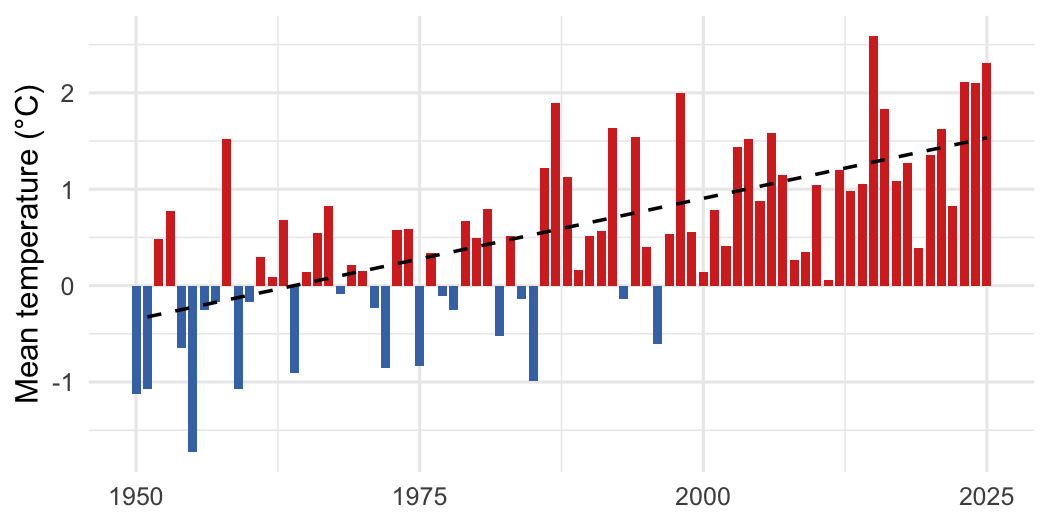
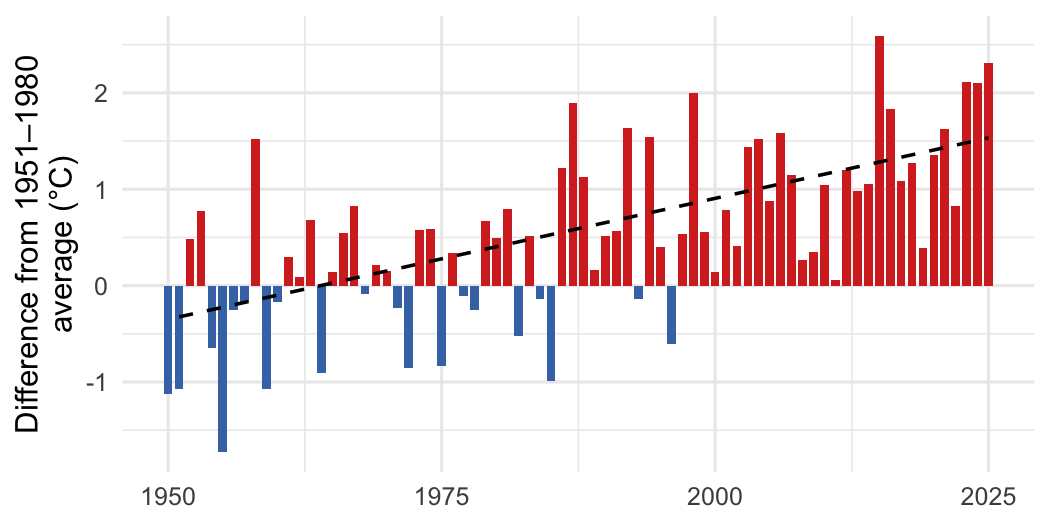
README: NOTICE for ERA5-Land data, plain axis label, fixes from plan review (#142)
Claude-Session: https://claude.ai/code/session_01GignjoKpZADXywTf6pAMgj

diff --git a/README.md b/README.md
@@ -20,6 +20,8 @@ pak::pak("NewGraphEnvironment/cd")
 
 cd is under active development and its functions change between releases (see [NEWS](https://newgraphenvironment.github.io/cd/news/index.html)). Pin a release for reproducible work: `pak::pak("NewGraphEnvironment/cd@vX.Y.Z")`.
 
+The example below also needs sf, Kendall and zyp: `pak::pak(c("sf", "Kendall", "zyp"))`.
+
 ## Example
 
 Extract a series for an area, compare it with a baseline, and test the trend. This is the run behind the figure above:
@@ -45,7 +47,7 @@ cd_summary(trn)
 #> 1 Mean temperature Annual 0.025    75            1.9 °C            0
 ```
 
-Each file is downloaded once and read from a local cache after that. Every value extracted records the commit of cd's code that built the file it came from.
+Files are cached after the first read and downloaded again only when they are republished. Extracted rows record which commit of cd built each file they came from.
 
 ## Learn more
 
@@ -60,16 +62,17 @@ Each file is downloaded once and read from a local cache after that. Every value
 |---|---|
 | **cd** | Climate departure: baselines, anomalies and trends, and ERA5-Land climate (this package) |
 | [wet](https://github.com/NewGraphEnvironment/wet) | Stream flow and water temperature for BC's Freshwater Atlas |
-| [gq](https://github.com/NewGraphEnvironment/gq) | Shared map symbology |
+
+cd computes the departures from wet's yearly station values.
 
 ## Data and methods it builds on
 
-The climate data are [ERA5-Land](https://www.ecmwf.int/en/era5-land) ([Muñoz-Sabater et al. 2021](https://doi.org/10.5194/essd-13-4349-2021)), produced by ECMWF for the Copernicus Climate Change Service and read from the [DestinE Earth Data Hub](https://earthdatahub.destine.eu/). The published layers contain modified Copernicus Climate Change Service information. Trends are Mann-Kendall tests with Theil-Sen slopes, from the [Kendall](https://cran.r-project.org/package=Kendall) and [zyp](https://cran.r-project.org/package=zyp) packages. cd's variables and its ecoregion and watershed framing follow [`bcgov/bc_climate_anomaly`](https://github.com/bcgov/bc_climate_anomaly), a Shiny app by the Province of British Columbia (Aseem Sharma and contributors).
+The climate data are [ERA5-Land](https://www.ecmwf.int/en/era5-land) ([Muñoz-Sabater et al. 2021](https://doi.org/10.5194/essd-13-4349-2021)), produced by ECMWF for the Copernicus Climate Change Service and read from the [DestinE Earth Data Hub](https://earthdatahub.destine.eu/). The published layers contain modified Copernicus Climate Change Service information, under CC BY 4.0. Trends are Mann-Kendall tests with Theil-Sen slopes, from the [Kendall](https://cran.r-project.org/package=Kendall) and [zyp](https://cran.r-project.org/package=zyp) packages. cd's variables and its ecoregion and watershed framing follow [`bcgov/bc_climate_anomaly`](https://github.com/bcgov/bc_climate_anomaly), a Shiny app by the Province of British Columbia (Aseem Sharma and contributors).
 
 ## Citation
 
-Cite cd with `citation("cd")`, or from [`CITATION.cff`](CITATION.cff).
+Cite cd with `citation("cd")`.
 
 ## License
 
-MIT © New Graph Environment Ltd. See [LICENSE](LICENSE.md).
+MIT © New Graph Environment Ltd. See [LICENSE](LICENSE.md). The ERA5-Land data it ships and publishes are CC BY 4.0; see [NOTICE](NOTICE.md).

diff --git a/planning/active/review-1.md b/planning/active/review-1.md
@@ -1,0 +1,25 @@
+# Plan review 1 (#142) — Plan agent, 2026-10-17, spawned 07:26 UTC
+
+Read-only reviewer; findings returned as reply text and transcribed here in summary. 22 items.
+
+| # | Finding | Disposition |
+|---|---|---|
+| 1 | Glob selectors `cd_plot_*` / `cd_cache_*` are not valid pkgdown | Already avoided: topics listed, `starts_with("cd_cache_")`; `check_pkgdown()` clean |
+| 2 | No NOTICE though repo ships ERA5-Land-derived rasters (`inst/extdata/example_climate.tif`, `example_daily/`, `inst/vignette-data/`) | Fixed: `NOTICE.md`, `NOTICE` added to pkgdown.yaml `allowed` |
+| 3 | Example needs sf, Kendall, zyp (Suggests) after a default install | Fixed: one line after Installation |
+| 4 | Ecosystem wording: cd row from wet's README; add relationship line | Fixed: "cd computes the departures from wet's yearly station values." (wet README wording) |
+| 5 | gq listed but no vignette depends on or calls gq | Fixed: gq row dropped |
+| 6 | Copernicus licence/attribution unconfirmed | Confirmed CC-BY-4.0 from CDS catalogue API `collections/reanalysis-era5-land`; sentence kept without a year |
+| 7 | Figure y-axis reads "Mean temperature (°C)" on an anomaly plot | Fixed in `data-raw/readme_figure.R` (`labs(y = "Difference from 1951–1980 average (°C)")`); package default filed as an issue |
+| 8 | "downloaded once" false: ETag revalidation re-downloads republished files | Fixed: "downloaded again only when they are republished" |
+| 9 | Relative `CITATION.cff` link 404s on pkgdown (build-ignored) | Fixed: `citation("cd")` only |
+| 10 | About / Title / tagline must be one string | Done in Phase 3 (About read back) |
+| 11 | DESCRIPTION + authors_roles in same PR so merge regenerates CITATION.cff | Done (same PR) |
+| 12 | NEWS/version for this PR | Left to `/gh-pr-merge` |
+| 13 | Example output and figure go stale when 2026 lands | Accepted; script header says re-run when the catalog gains a year |
+| 14 | "by season and year" correct | — |
+| 15 | Maintainer section mixes legacy `cd_fetch` | Section described as "Building the published data", not "the pipeline" |
+| 16 | Scope removals fit the convention | — |
+| 17-22 | Acceptance: example == script markers; enumerate claims; links on both renderings; pkgdown checks; About read-back; word counts | Folded into Phase 5 / code-check |
+
+Also: "version" vs "commit" for `cd_sha` — fixed to "which commit of cd built each file".

diff --git a/NOTICE.md b/NOTICE.md
@@ -1,0 +1,17 @@
+# NOTICE
+
+cd's climate data are derived from ERA5-Land, produced by ECMWF for the Copernicus Climate Change Service and distributed under the [Creative Commons Attribution 4.0 International licence](https://creativecommons.org/licenses/by/4.0/) (CC BY 4.0).
+
+> Contains modified Copernicus Climate Change Service information.
+
+ERA5-Land: Muñoz-Sabater, J., et al. (2021). ERA5-Land: a state-of-the-art global reanalysis dataset for land applications. *Earth System Science Data*, 13, 4349–4383. <https://doi.org/10.5194/essd-13-4349-2021>
+
+cd reads ERA5-Land from the [DestinE Earth Data Hub](https://earthdatahub.destine.eu/), aggregates and derives variables from it (seasonal and annual means and totals, vapour pressure deficit, relative humidity, soil moisture, snow metrics, and daily local-day air temperature), and publishes the results to `s3://stac-era5-land`.
+
+## Redistributed data
+
+This repository redistributes modified ERA5-Land data, under CC BY 4.0, in:
+
+- `inst/extdata/example_climate.tif`
+- `inst/extdata/example_daily/` (daily air temperature, 2002)
+- `inst/vignette-data/` (the precomputed series and rasters the vignettes read)
